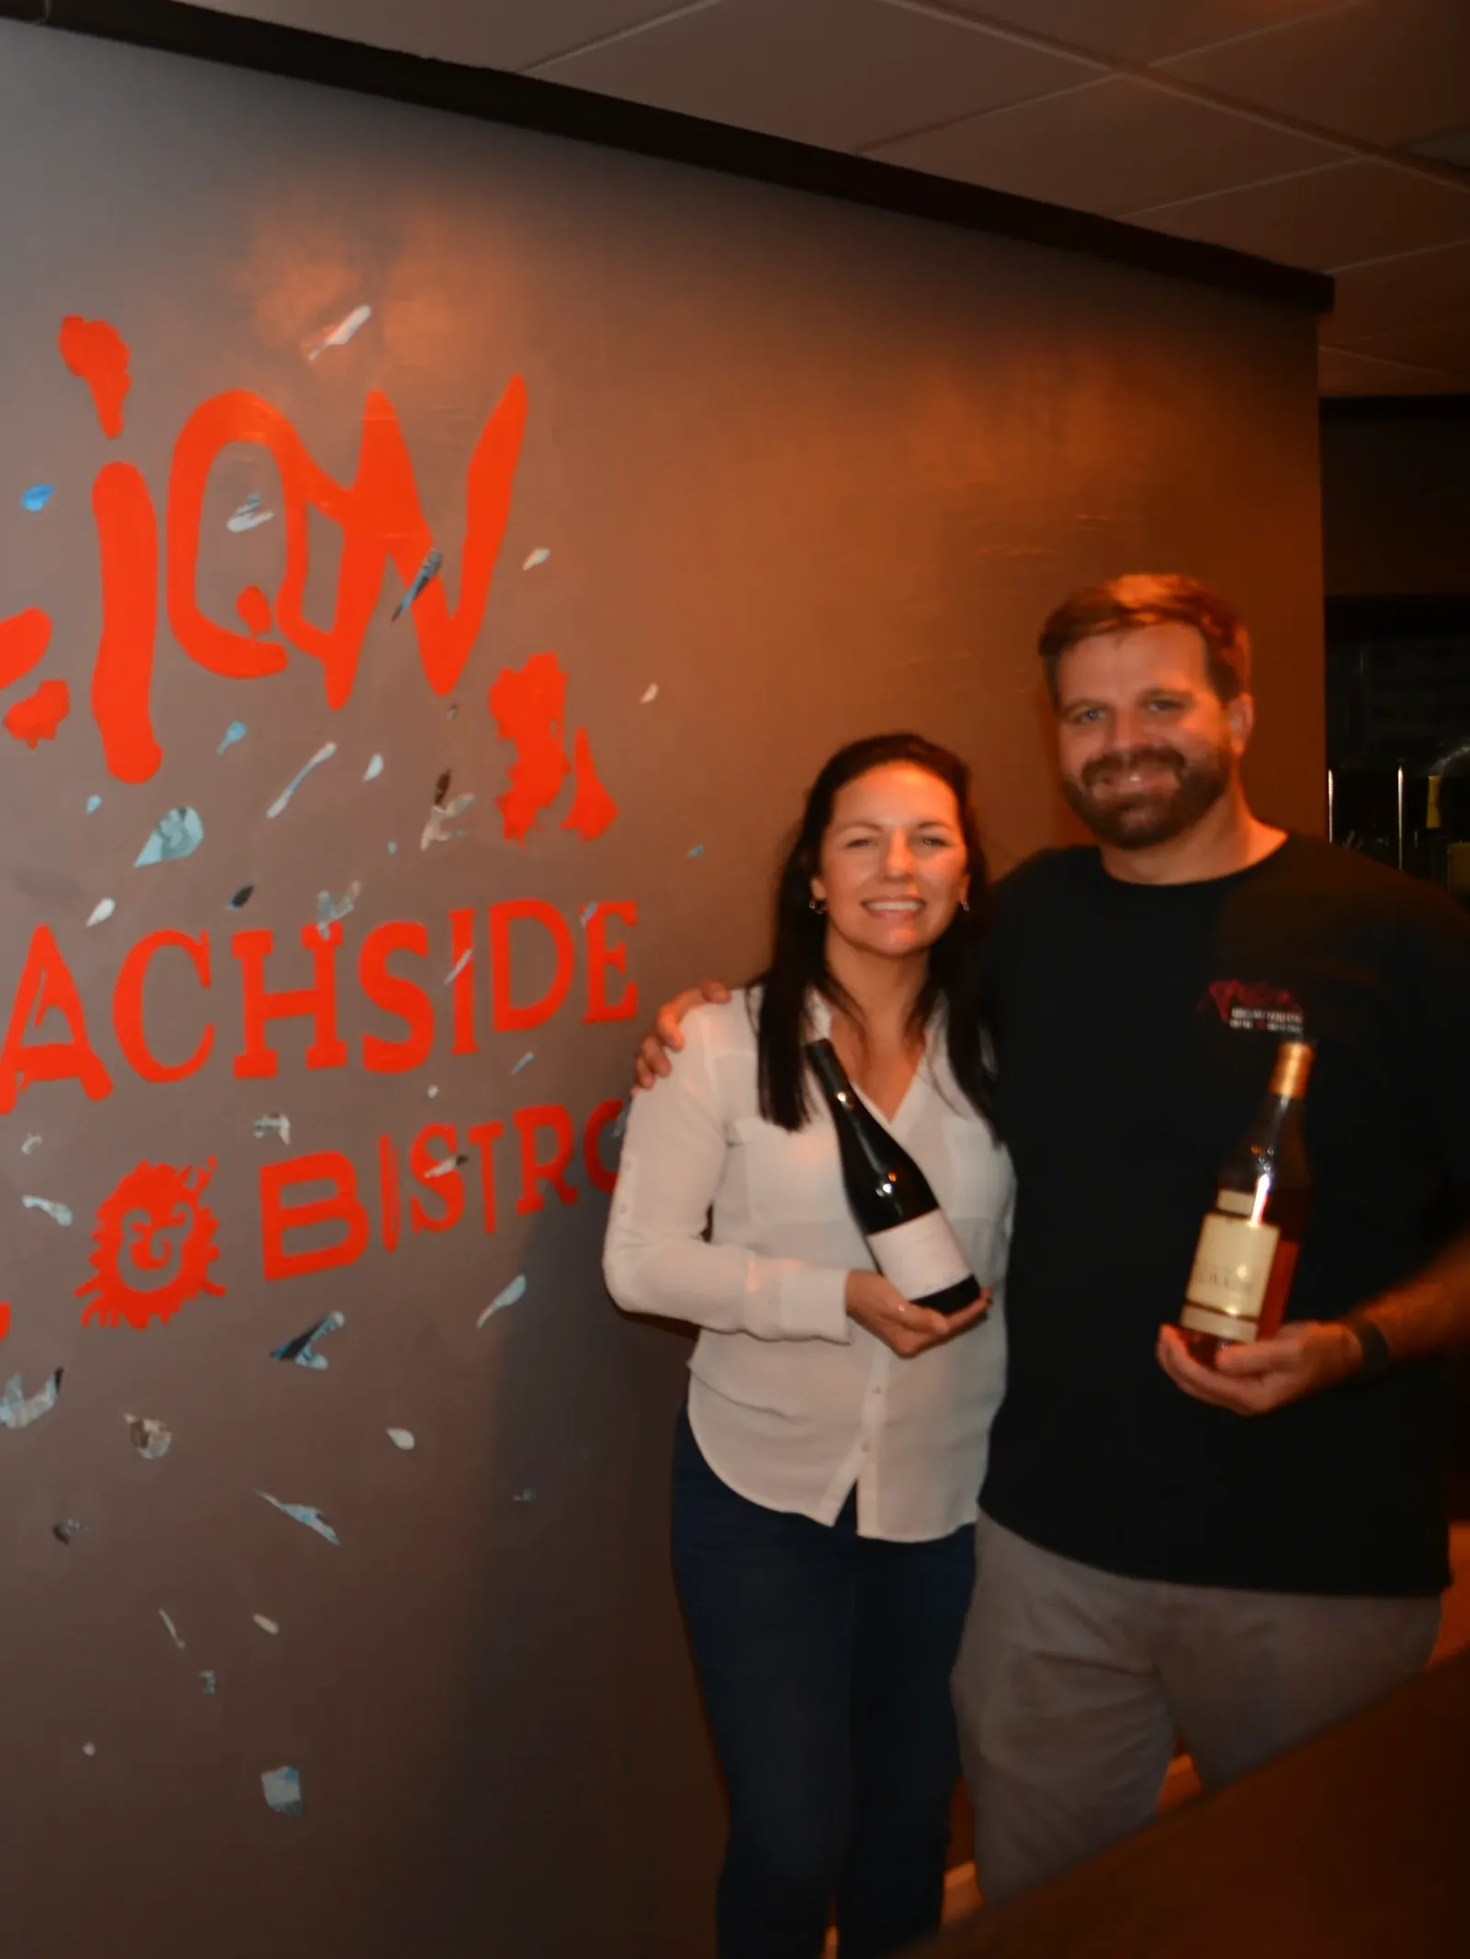
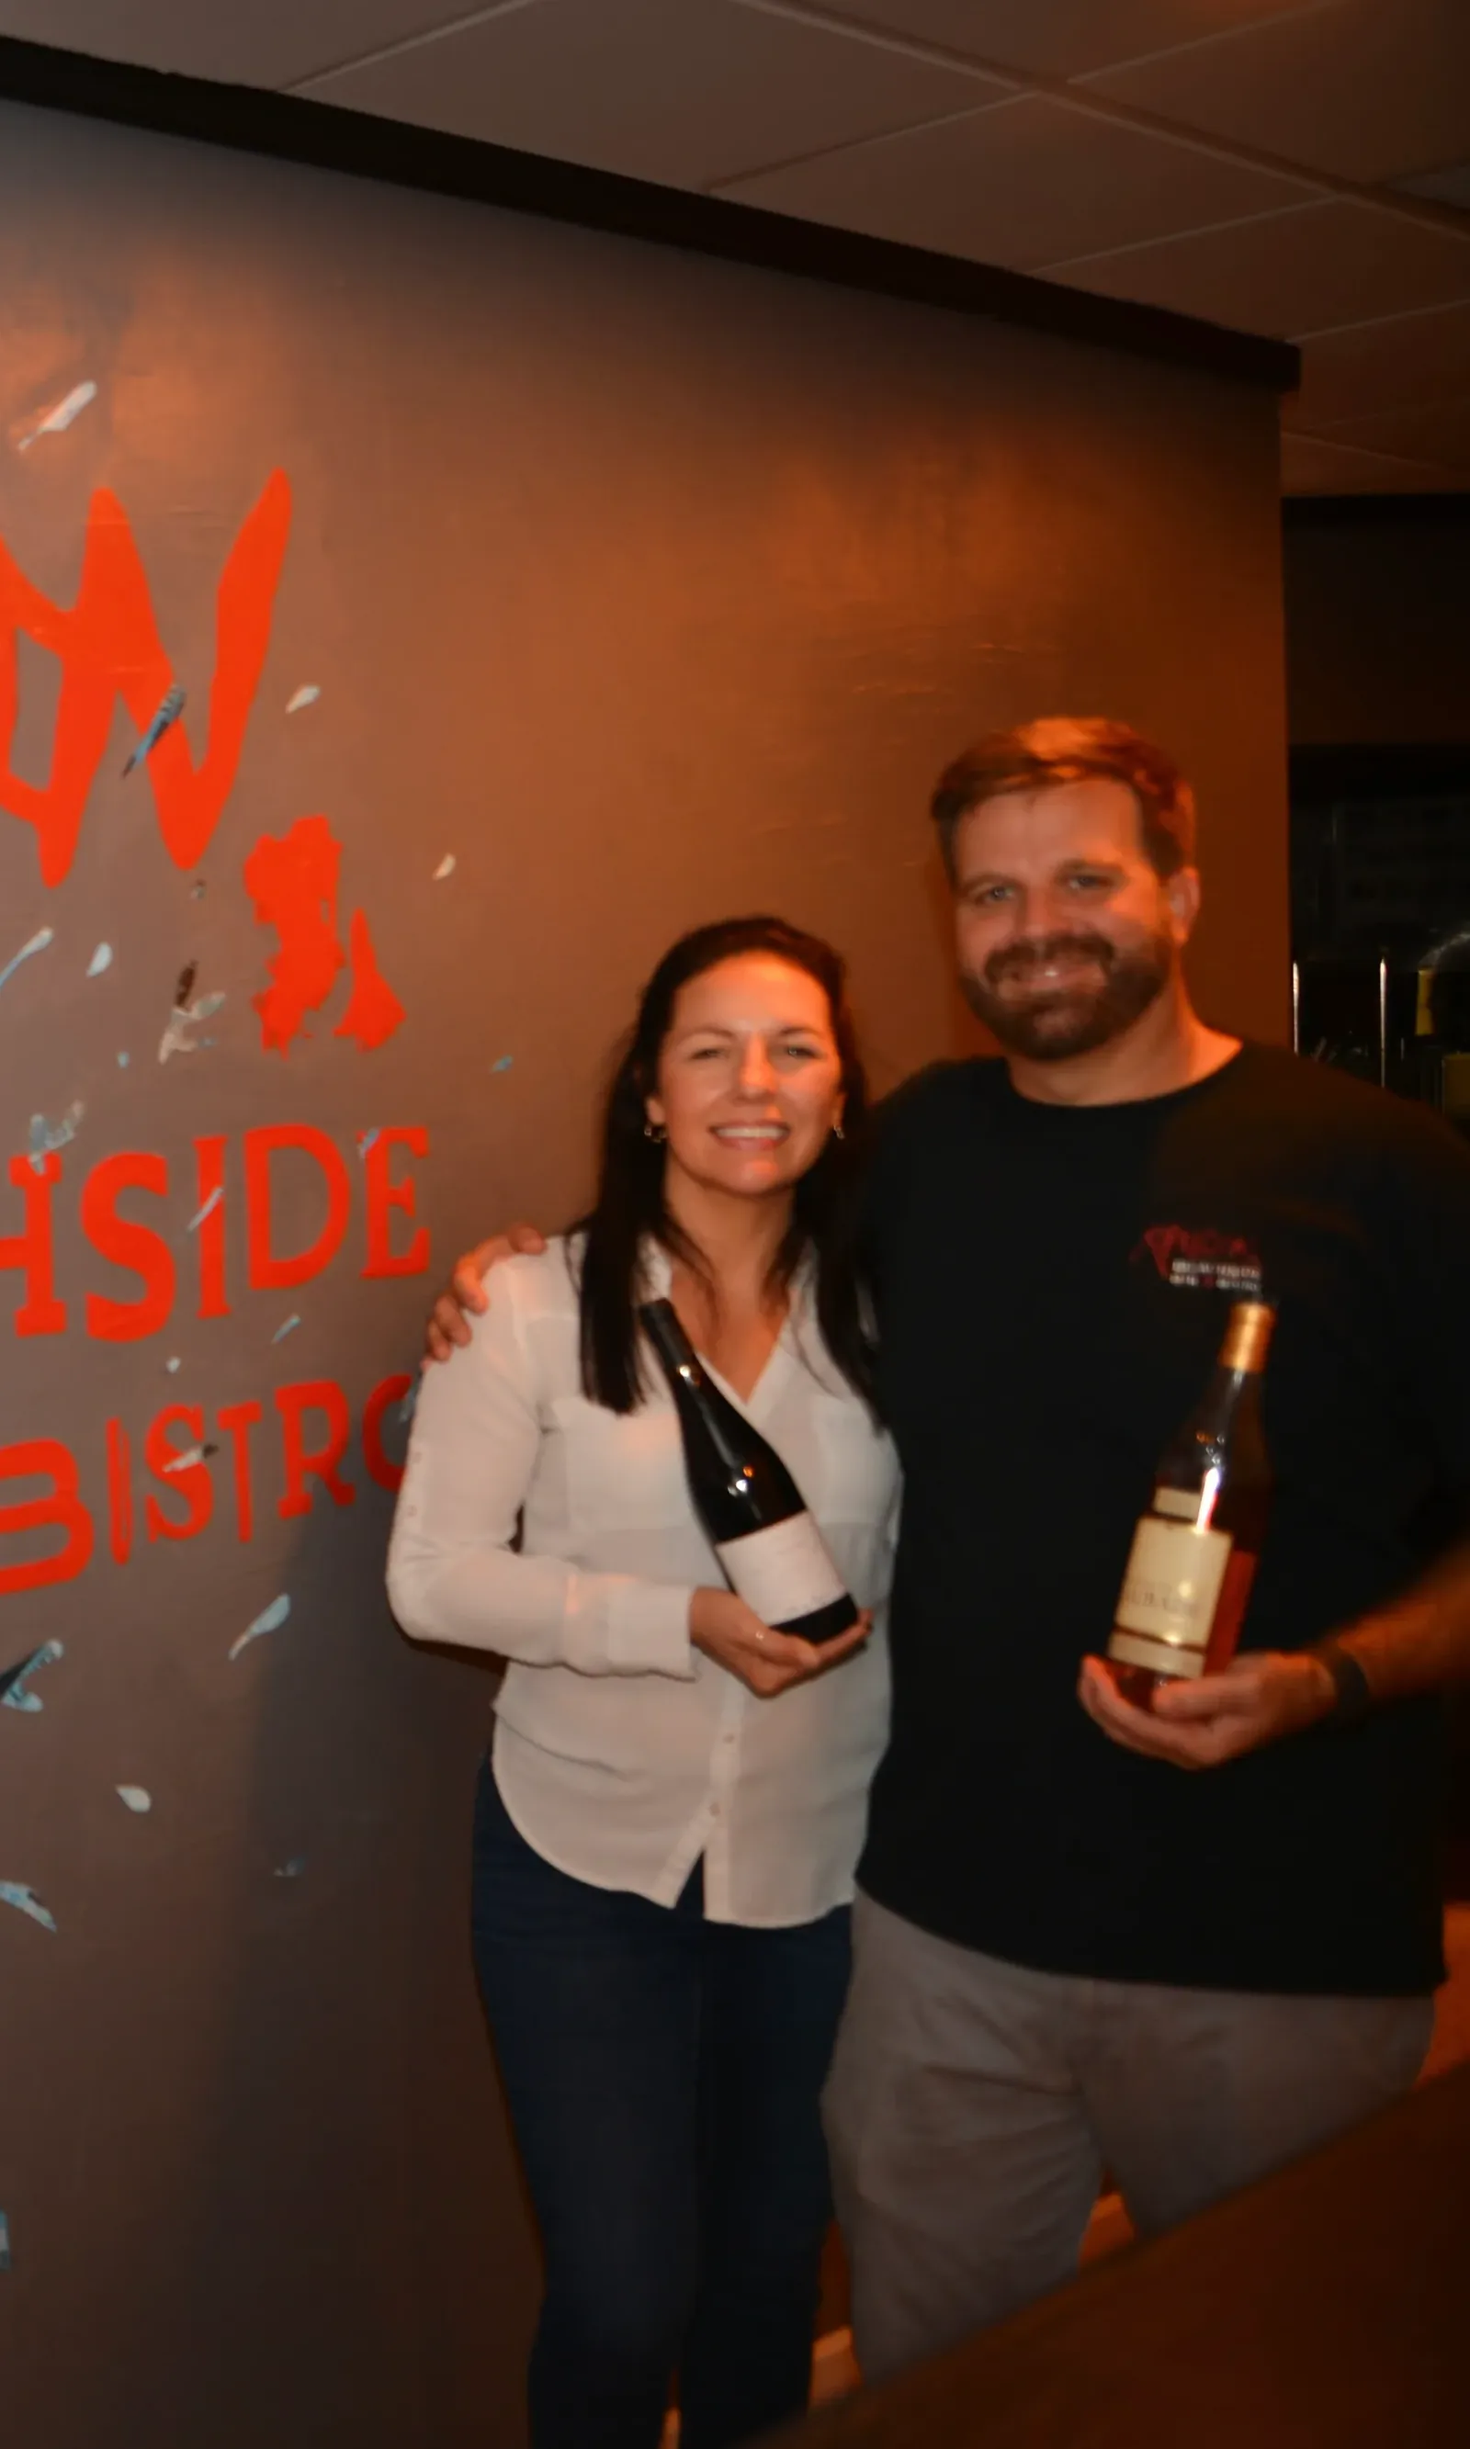
Centre the owners in frame by trimming the dead ground, not the CSS
They stood at 68% across the photograph with the painted wall filling the left
of it, so every frame put them off to one side. object-position could not fix
that: it slides the visible window inside whatever slack the frame's aspect
leaves over, and on the homepage the frame and the source are nearly the same
shape, so there was almost none.

Taking a fifth off the left of the original moves them to 61% in every render
at once — desktop, Story and mobile — and leaves the mural clearly reading.
It also lands the source at an aspect of 0.600, which is exactly what the
homepage frame measures, so that one now crops nothing at all.

Done as a CROP map in the optimiser rather than by editing the file, so the
original stays whole and the framing decision is legible next to the sizes it
feeds. Any photograph whose subject sits off-centre can use the same route.

Claude-Session: https://claude.ai/code/session_013uwKP3zTtUhnzqQWkBFUWY

diff --git a/scripts/optimize-photos.py b/scripts/optimize-photos.py
@@ -47,6 +47,26 @@ SUFFIXES = {".jpg", ".jpeg", ".png", ".webp", ".tif", ".tiff", ".heic"}
 # photo quadruples what ships for no benefit, so anything listed here gets only
 # the roles named; anything unlisted gets all of them, which is the right
 # default for a photo that has just arrived and has no slot yet.
+# Framing, applied to the original before anything is sized from it. Fractions
+# of the source: (left, top, right, bottom).
+#
+# This is for photographs whose subject is off-centre in a way no CSS crop can
+# fix — `object-position` can only slide the visible window inside whatever the
+# frame's aspect leaves over, and when the frame and the source are nearly the
+# same shape that is almost nothing. Cutting the dead ground here moves the
+# subject in every frame at once, desktop, tablet and mobile.
+#
+# Kept as data rather than done to the file, so the original stays whole and
+# the decision is legible.
+CROP = {
+    # The owners stand right of centre with the painted wall filling the left
+    # of the frame; they sit at 68% across. Taking a fifth off the left brings
+    # them to 61% and leaves the mural clearly reading. It also lands the
+    # source at 0.60, which is exactly the homepage frame's aspect, so that
+    # render crops nothing at all.
+    "owners-mural": (0.20, 0.0, 1.0, 1.0),
+}
+
 PLAN = {
     # --- Nelson's originals ---------------------------------------------
     "short-rib-booth": ["hero"],        # hero
@@ -113,6 +133,12 @@ def main() -> None:
         # come out rotated.
         img = ImageOps.exif_transpose(Image.open(path)).convert("RGB")
         name = path.stem.lower().replace(" ", "-").replace("_", "-")
+        if name in CROP:
+            l, t, r, b = CROP[name]
+            before = img.size
+            img = img.crop((round(l * img.width), round(t * img.height),
+                            round(r * img.width), round(b * img.height)))
+            print(f"  framed {before[0]}×{before[1]} -> {img.width}×{img.height}")
         roles = override or PLAN.get(name, list(ROLES))
         print(f"{path.name}  ({img.width}×{img.height})")
         for role in roles:
